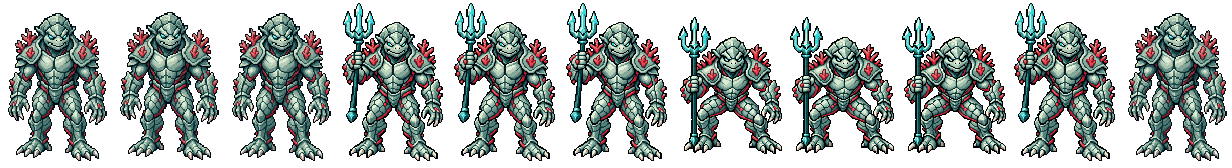
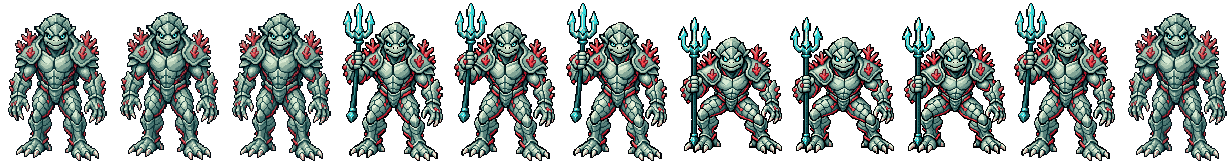
Make coral knight stare directly at the player

diff --git a/tools/build_coral_sheets.py b/tools/build_coral_sheets.py
@@ -96,6 +96,9 @@ def main() -> None:
     idle_breath.alpha_composite(idle, (0, -1))
     body = Image.new("RGBA", (SIZE[0] * FRAMES, SIZE[1]))
     fx = Image.new("RGBA", (SIZE[0] * FRAMES, SIZE[1] + TOP))
+    contact = Image.new("RGBA", (SIZE[0] * FRAMES, SIZE[1] + TOP),
+                        (7, 20, 24, 255))
+    previews = []
     poses = [idle, idle_breath, idle, raised, raised, raised,
              impact, impact, impact, raised, idle]
     card_sheet = Image.open(PIXELS / "fanatic_fx_1.png").convert("RGBA")
@@ -116,8 +119,23 @@ def main() -> None:
                 effect.alpha_composite(card, (56 - card.width // 2,
                                               center_y - card.height // 2))
         fx.alpha_composite(effect, (frame * SIZE[0], 0))
+        preview = Image.new("RGBA", (SIZE[0], SIZE[1] + TOP),
+                            (7, 20, 24, 255))
+        preview.alpha_composite(pose, (0, TOP))
+        preview.alpha_composite(effect)
+        contact.alpha_composite(preview, (frame * SIZE[0], 0))
+        previews.append(preview)
     body.save(PIXELS / "coral_body_1.png")
     fx.save(PIXELS / "coral_fx_1.png")
+    contact.save(SOURCE / "coral_contact_preview.png")
+    previews[6].resize((448, 864), Image.Resampling.NEAREST).save(
+        SOURCE / "coral_fire_preview.png")
+    gif = [frame.resize((336, 648), Image.Resampling.NEAREST).convert("RGB")
+           for frame in previews]
+    gif[0].save(SOURCE / "coral_preview.gif", save_all=True,
+                append_images=gif[1:],
+                duration=[500, 500, 120, 180, 220, 180, 220, 180, 180, 190, 300],
+                loop=0, optimize=False)
 
 
 if __name__ == "__main__":

diff --git a/art/pixel/enemies_px/source/coral/README.md b/art/pixel/enemies_px/source/coral/README.md
@@ -2,6 +2,8 @@
 
 元の `art/pixel/coral.png` を基に、溺れた眷属と同じ112×168px・48色のクラシックなドット絵として `idle.png` を描き直した。`raised.png` と `impact.png` はこの新しいベースに合わせた全身の差し替えキーポーズ。大型画像は制作資料で、Godotには `.gdignore` により読み込ませない。
 
+各キーポーズの顔と瞳は真正面に揃え、プレイヤーを見据え続ける。矛を構えて打ち下ろす間も視線は外さない。
+
 `python tools/build_coral_sheets.py` で `coral_body_1.png` と `coral_fx_1.png` を再生成する。各フレームは元のキーポーズから合成し、最終的に48色・二値透過・整数ピクセルへ揃える。カード画素は実装済みの狂信者のシートから再利用する。
 
 | コマ | 動作 |
